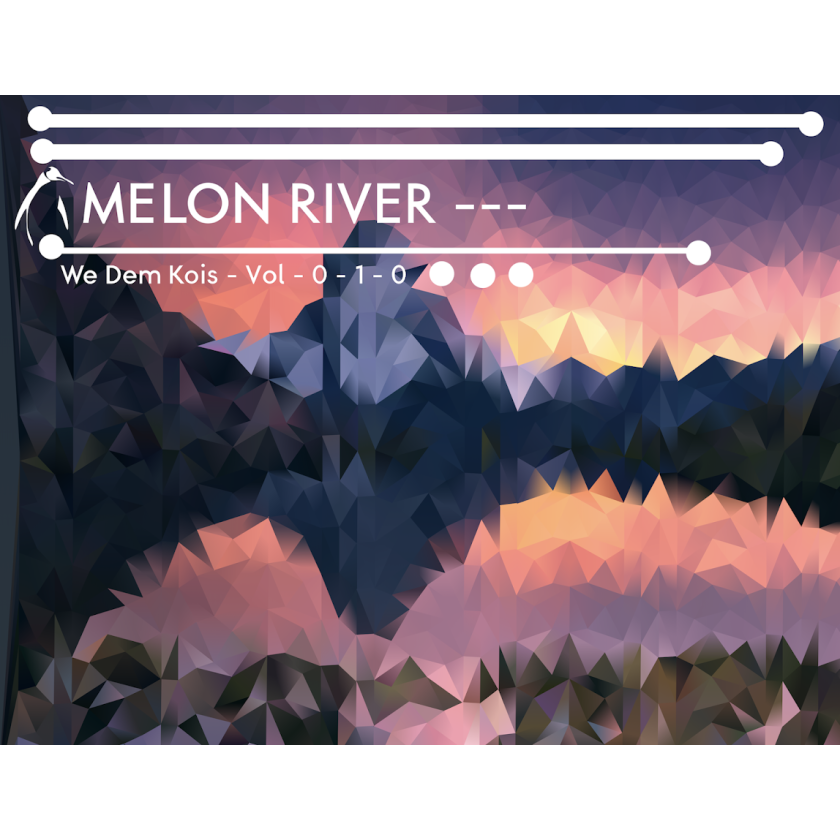
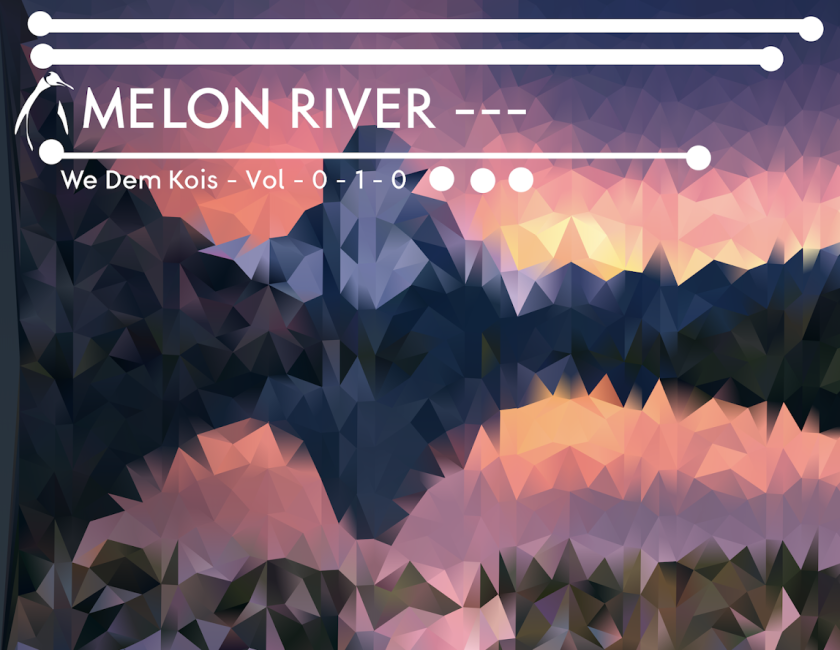
Image viewer modal box
- Added modal box to view enlarged version of image when image is clicked.

- Changed album_list array to pass file name instead of ID for onclick function.

- Removed extra transparancy from non-square images.

- Added "Grass Leaf" image.

diff --git a/album_list.js b/album_list.js
@@ -1,22 +1,25 @@
 var album_list = [
   {"filepath":"we_dem_kois/01_bath_oat.png", "name":"Bath Oat",
-    "id":"album01", "onclick":"modalOpen(album01)"},
+    "id":"album01", "onclick":"modalOpen('we_dem_kois/01_bath_oat.png')"},
 
   {"filepath":"we_dem_kois/02_banjo_ice.png", "name":"Banjo Ice",
-    "id":"album02", "onclick":"modalOpen(album02)"},
+    "id":"album02", "onclick":"modalOpen('we_dem_kois/02_banjo_ice.png')"},
 
   {"filepath":"we_dem_kois/03_plant_tube.png", "name":"Plant Tube",
-    "id":"album03", "onclick":"modalOpen(album03)"},
+    "id":"album03", "onclick":"modalOpen('we_dem_kois/03_plant_tube.png')"},
 
   {"filepath":"we_dem_kois/04_lemon_knife.png", "name":"Lemon Knife",
-    "id":"album04", "onclick":"modalOpen(album04)"},
+    "id":"album04", "onclick":"modalOpen('we_dem_kois/04_lemon_knife.png')"},
 
   {"filepath":"we_dem_kois/05_melon_river.png", "name":"Melon River",
-    "id":"album05", "onclick":"modalOpen(album05)"},
+    "id":"album05", "onclick":"modalOpen('we_dem_kois/05_melon_river.png')"},
 
   {"filepath":"we_dem_kois/06_chisel_wire.png", "name":"Chisel Wire",
-    "id":"album06", "onclick":"modalOpen(album06)"},
+    "id":"album06", "onclick":"modalOpen('we_dem_kois/06_chisel_wire.png')"},
 
   {"filepath":"we_dem_kois/07_rice_lamp.png", "name":"Rice Lamp",
-    "id":"album07", "onclick":"modalOpen(album07)"},
+    "id":"album07", "onclick":"modalOpen('we_dem_kois/07_rice_lamp.png')"},
+
+  {"filepath":"we_dem_kois/08_glass_leaf.png", "name":"Glass Leaf",
+    "id":"album080", "onclick":"modalOpen('we_dem_kois/08_glass_leaf.png')"}
 ];

diff --git a/projects.html b/projects.html
@@ -68,7 +68,7 @@
           class="div-dropdown" onclick="expandDiv(project2, p2button)">
           <h1>We Dem Kois</h1></div>
         <div id="project2" class="project-description hidden">
-          <p>Author: Cameron</p>
+          <p>Creator: Cameron H</p>
           <br>
           <!-- Items inserted by script -->
         </div>
@@ -87,6 +87,13 @@
           <p>who would have guessed, even more lines</p>
         </div>
       </section>
+
+      <div id="modal" onclick="modalClose()">
+        <div id="modal-img-container">
+          <img id="modal-img" src="we_dem_kois/01_bath_oat.png" alt="Opened Image">
+          <img id="modal-close" src="ui_images/button_close.png" alt="close" onclick="modalClose()">
+        </div>
+      </div>
 
     </div>
     <div id="left-column" class="sidebar" style="order: 1"><img src="ui_images/speech_bubble.png" alt="speech bubble" class="side-bubble"></div>
@@ -122,7 +129,11 @@
   <!-- Modal Box -->
   <script>
     function modalOpen(selectedItem) {
-      window.alert("Sorry, opening items is currently unavailable");
+      document.getElementById("modal").style.display = "block";
+      document.getElementById("modal-img").src = selectedItem;
+    }
+    function modalClose() {
+      document.getElementById("modal").style.display = "none";
     }
   </script>
   <!-- Expand divs -->

diff --git a/styles.css b/styles.css
@@ -270,6 +270,7 @@ body {
   display: flex;
   flex-wrap: wrap;
   justify-content: space-around;
+  align-items: center;
 }
 #project2.hidden {
   display: none;
@@ -278,19 +279,56 @@ body {
   width: 100%;
 }
 #project2 > div {
-  height:220px;
+  height: auto;
   width: 220px;
   margin: 10px;
   text-align: center;
 }
-#project2 > div:hover{
-  border-style: solid;
-}
 #project2 img {
-  height: 100%;
+  width: 100%;
+}
+#project2 img:hover{
+  border-style: solid;
+  border-width: 1.5px;
 }
 /* Project 3 - Art*/
 /*All--------------------------------------------------*/
+/* Modal */
+#modal {
+  display: none;
+  position: fixed;
+  z-index: 1;
+  left: 0;
+  top: 0;
+  padding: 40px 40px 40px 80px;
+  width: 100%;
+  height: 100%;
+  overflow: hidden;
+  text-align: center;
+  background-color: rgba(0,0,0,0.8);
+}
+#modal-img-container {
+  display: inline-flex;
+  align-items: flex-start;
+  margin: 0px auto;
+  width: auto;
+  height: 100%;
+  /* background-color: grey; */
+}
+#modal-img {
+  object-fit: scale-down;
+  max-height: 100%;
+  max-width: 100%;
+}
+#modal-close {
+  margin: 5px;
+  height: 30px;
+  width: 30px;
+}
+#modal-close:hover {
+  border-radius: 100%;
+  box-shadow: 0px 0px 4px white;
+}
 /* Text */
 #text {
   text-align: center;
